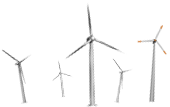
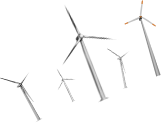
Add left-most wind turbines.
Again, replaced the split PNG with a version extracted straight from the
PSD. The split version was not at the angle required to fit into the
landscape. I tried -(webkit|moz)-rotate, but the result was a
fuzzy-looking image.

diff --git a/app/assets/stylesheets/scenarios/_modern.sass b/app/assets/stylesheets/scenarios/_modern.sass
@@ -40,7 +40,16 @@
       background: url(/assets/scenarios/modern/header/ground.png) center 87px no-repeat
       height: 368px
       left: 321px
-      padding: 87px 0 0
       position: absolute
       top: 110px
       width: 1277px
+
+      // Wind turbines which appear on the left side of the header.
+
+      .turbines
+        background: url(/assets/scenarios/modern/header/wind-turbines.png) top left no-repeat
+        height: 125px
+        left: 100px
+        position: absolute
+        top: 40px
+        width: 162px
